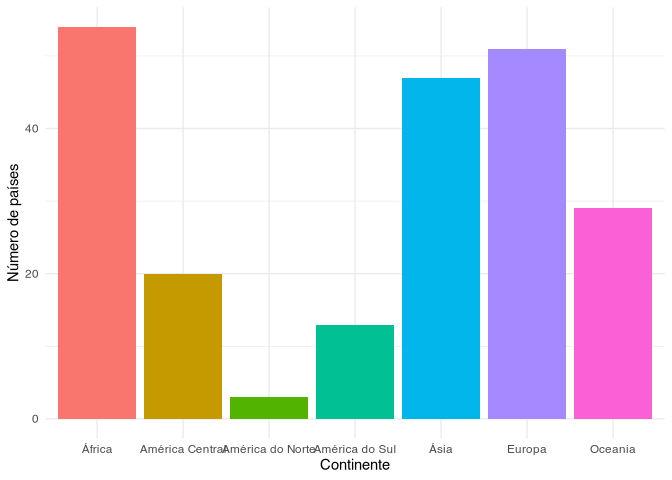
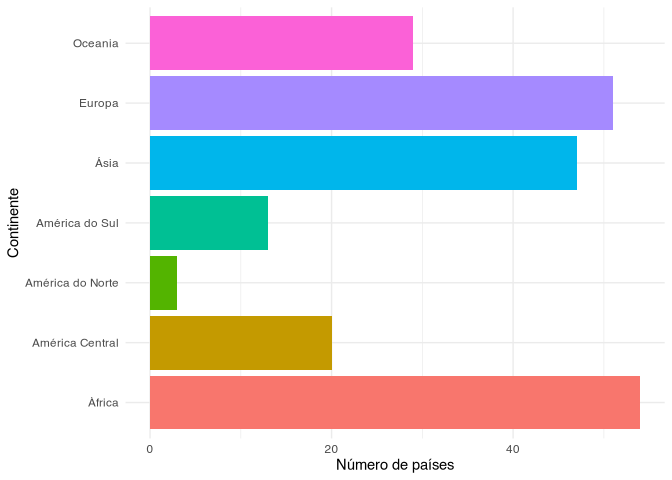
change example figure

diff --git a/README.md b/README.md
@@ -58,7 +58,8 @@ gerar_tabela() %>%
   ggplot2::geom_col() +
   ggplot2::theme_minimal() +
   ggplot2::theme(legend.position = "none") +
-  ggplot2::labs(x = "Continente", y = "Número de países")
+  ggplot2::labs(x = "Continente", y = "Número de países") +
+  ggplot2::coord_flip()
 ```
 
 <img src="man/figures/README-unnamed-chunk-2-1.png" width="100%" />
